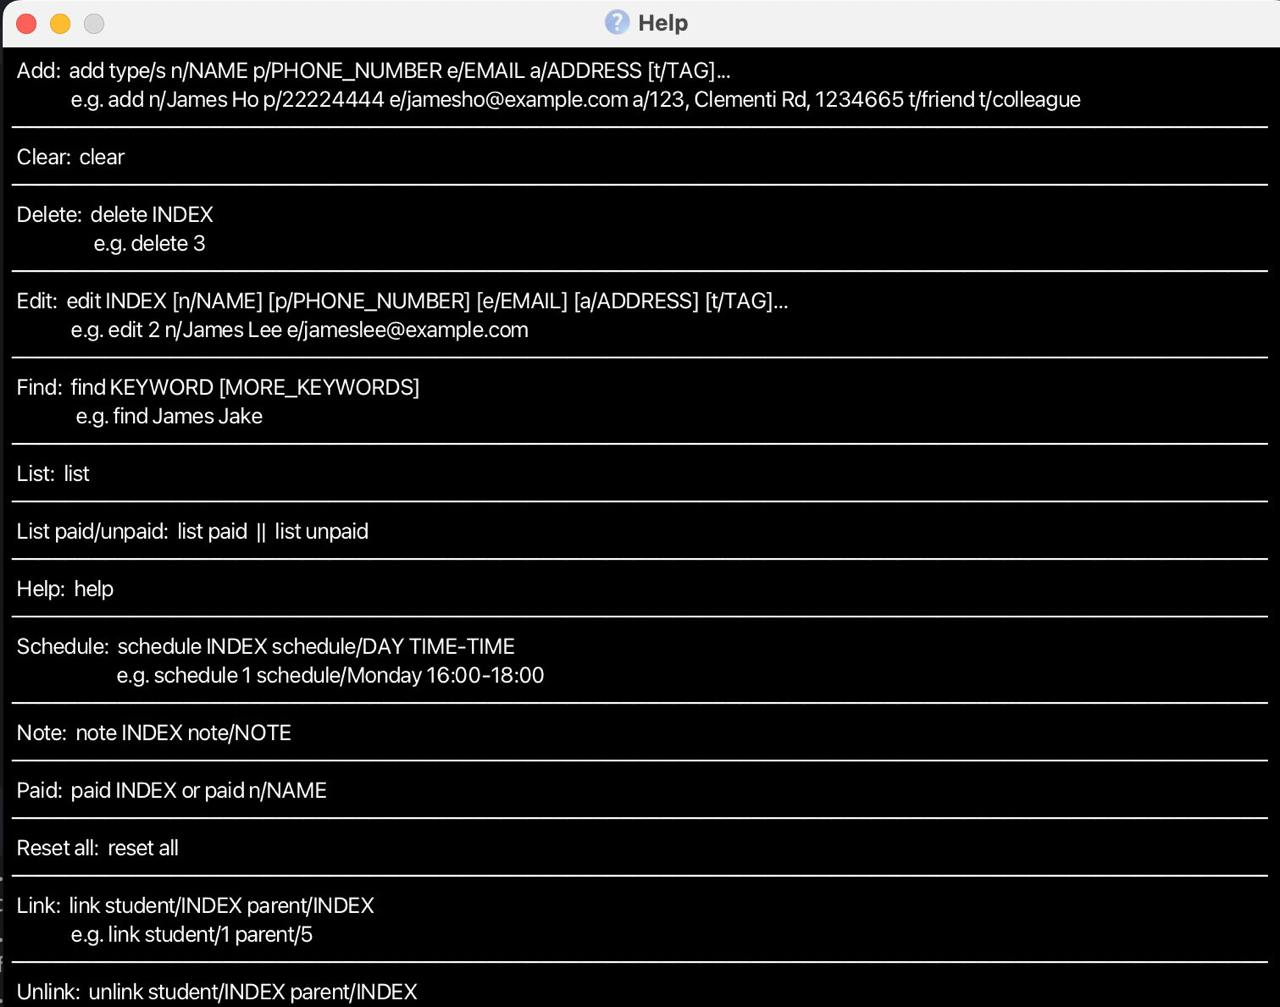
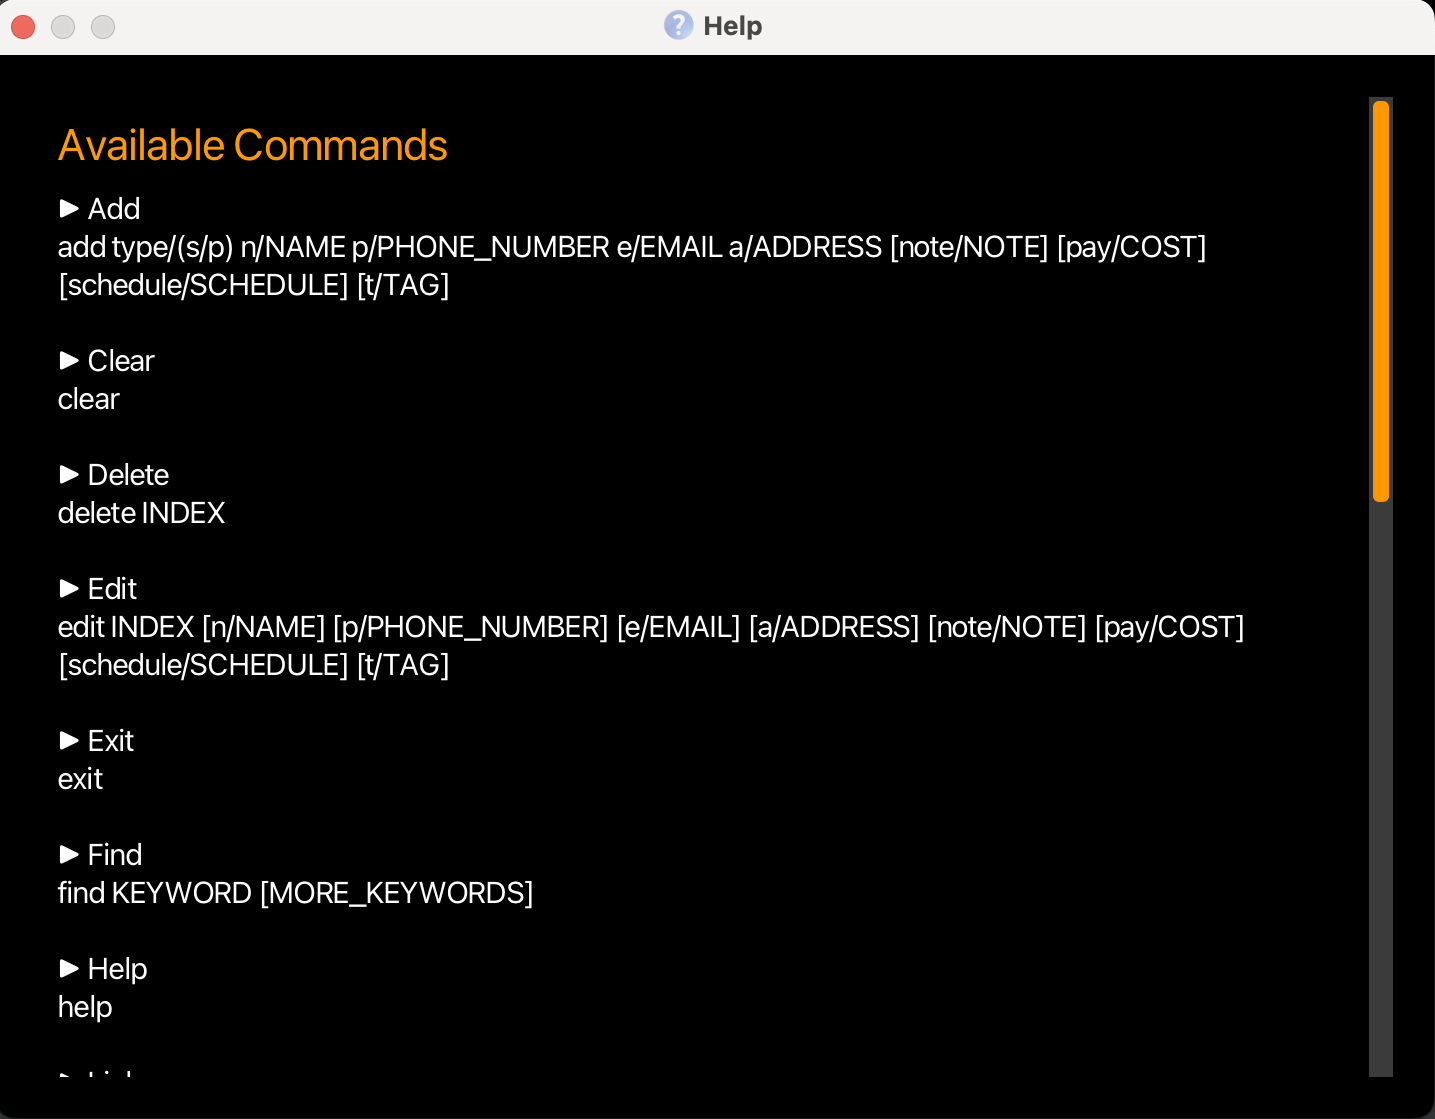
Update helpMessage.png

Changed region(s): [[0.0, 0.0, 0.875, 1.0], [0.9375, 0.0924, 1.0, 0.9851], [0.9688, 0.9851, 1.0, 1.0]]

diff --git a/docs/UserGuide.md b/docs/UserGuide.md
@@ -165,13 +165,13 @@ With Tutorhub, you can:
 
 
 
-Shows a list of all commands accepted in Tutorhub.
+Shows a list of all commands accepted in Tutorhub, with the link to this user guide at the bottom.
 
 
 
 
 ![help message](images/helpMessage.png)
-
+![helpMessage2.png](images/helpMessage2.png)
 
 
 
